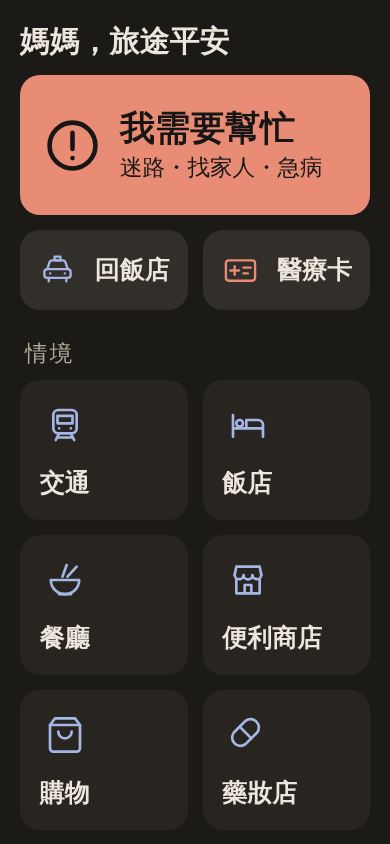
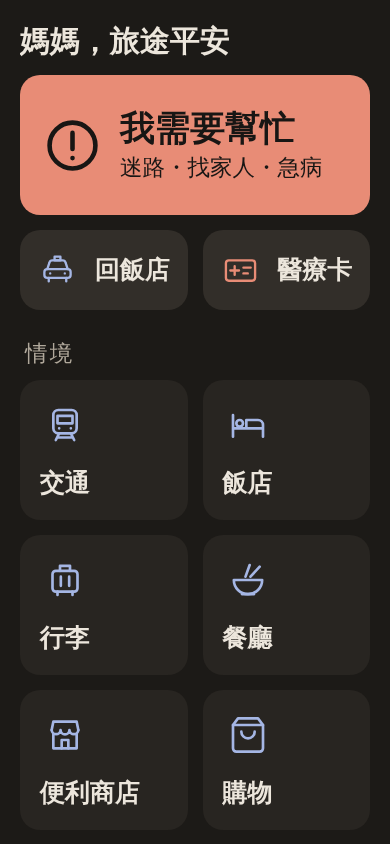
Add the luggage scene, Shinkansen luggage guide, exits and transfers (#26)
- New 行李 scene: lockers and left-luggage, courier forwarding to the hotel
  or airport, oversized baggage on the Shinkansen; suitcase pictogram
- Guide 新幹線大型行李 from JR Central / JR West, with sources and date
- Transport: which exit for 〇〇 (exit answers), transfer gate, transfer
  inside the gates

Claude-Session: https://claude.ai/code/session_01FL5DYQMe9ZWzkevjtD88Bj

diff --git a/src/content/scenes/luggage.ts b/src/content/scenes/luggage.ts
@@ -1,0 +1,183 @@
+import type { Scene } from "../types";
+
+const OK = { jp: "わかりました。", zh: "知道了" };
+
+/** 行李: lockers, left-luggage, forwarding by courier, and big suitcases on the Shinkansen. */
+export default {
+  id: "luggage",
+  title: "行李",
+  icon: "luggage",
+  groups: [
+    { id: "store", title: "寄放・置物櫃" },
+    { id: "send", title: "宅配寄送" },
+    { id: "shinkansen", title: "新幹線大行李" },
+  ],
+  phrases: [
+    {
+      id: "luggage-locker",
+      group: "store",
+      zh: "置物櫃在哪裡？",
+      jp: "コインロッカー は どこ です か。",
+      answers: "direction",
+    },
+    {
+      id: "luggage-big-locker",
+      group: "store",
+      zh: "有放得下大行李箱的置物櫃嗎？",
+      jp: "{大|おお}きい スーツケース が {入|はい}る ロッカー は あります か。",
+      answers: "yesNo",
+    },
+    {
+      id: "luggage-left-luggage",
+      group: "store",
+      zh: "附近有可以寄放行李的地方嗎？",
+      jp: "{近|ちか}く に {荷物|にもつ} を {預|あず}けられる {所|ところ} は あります か。",
+      tip: "大車站的置物櫃常常客滿。車站、飯店櫃台和部分便利商店有人工寄放。",
+      answers: "place",
+    },
+    {
+      id: "luggage-keep",
+      group: "store",
+      zh: "可以幫我保管行李嗎？",
+      jp: "{荷物|にもつ} を {預|あず}かって いただけます か。",
+      tip: "退房後還要逛街，可以請飯店櫃台先保管。",
+      answers: "yesNo",
+    },
+    {
+      id: "luggage-until",
+      group: "store",
+      zh: "可以放到幾點？",
+      jp: "{何時|なんじ} まで {預|あず}けられます か。",
+      answers: "time",
+    },
+    {
+      id: "luggage-pick-up",
+      group: "store",
+      zh: "我來拿寄放的行李。",
+      jp: "{預|あず}けた {荷物|にもつ} を {受|う}け{取|と}りに {来|き}ました。",
+      tip: "同時給對方看寄放時拿到的號碼牌或收據。",
+    },
+    {
+      id: "luggage-send-hotel",
+      group: "send",
+      zh: "我想把這件行李寄到我住的飯店。",
+      jp: "この {荷物|にもつ} を $hotel に {送|おく}りたい です。",
+      fallback: "この {荷物|にもつ} を この ホテル に {送|おく}りたい です。",
+      fallbackZh: "我想把這件行李寄到這間飯店。（同時給對方看地址）",
+      tip: "飯店櫃台、便利商店和機場都能寄宅配（宅急便），寄到下一間飯店就不用自己扛。",
+    },
+    {
+      id: "luggage-send-airport",
+      group: "send",
+      zh: "我想把這件行李寄到機場。",
+      jp: "この {荷物|にもつ} を {空港|くうこう} に {送|おく}りたい です。",
+      tip: "要寫搭機日期和航班，而且要提早幾天寄。哪天前要寄出，問櫃台最準。",
+    },
+    {
+      id: "luggage-arrive-when",
+      group: "send",
+      zh: "什麼時候會送到？",
+      jp: "いつ {届|とど}きます か。",
+      answers: [
+        { jp: "{今日|きょう} {中|じゅう}", zh: "今天" },
+        { jp: "{明日|あした}", zh: "明天" },
+        { jp: "{明後日|あさって}", zh: "後天" },
+        { jp: "{紙|かみ} に {書|か}きます", zh: "寫在紙上" },
+      ],
+    },
+    {
+      id: "luggage-fee",
+      group: "send",
+      zh: "運費多少錢？",
+      jp: "{送料|そうりょう} は いくら です か。",
+      tip: "請對方寫在紙上或指給你看。",
+    },
+    {
+      id: "luggage-form",
+      group: "send",
+      zh: "請教我怎麼填寄件單。",
+      jp: "{伝票|でんぴょう} の {書|か}き{方|かた} を {教|おし}えて ください。",
+    },
+    {
+      id: "luggage-fragile",
+      group: "send",
+      zh: "裡面有易碎的東西。",
+      jp: "{割|わ}れ{物|もの} が {入|はい}って います。",
+    },
+    {
+      id: "luggage-oversized-check",
+      group: "shinkansen",
+      zh: "這件行李算特大行李嗎？",
+      jp: "この {荷物|にもつ} は {特大|とくだい} {荷物|にもつ} です か。",
+      tip: "長、寬、高加起來超過 160 公分就算。",
+      answers: "yesNo",
+      link: { href: "#/guide/shinkansen-luggage", label: "看新幹線大型行李規定" },
+    },
+    {
+      id: "luggage-oversized-seat",
+      group: "shinkansen",
+      zh: "我想訂可以放大行李的座位。",
+      jp: "{特大|とくだい} {荷物|にもつ} スペース つき {座席|ざせき} を {予約|よやく} したい です。",
+      tip: "東海道、山陽、九州新幹線要先訂，不另外收費。",
+      link: { href: "#/guide/shinkansen-luggage", label: "看新幹線大型行李規定" },
+    },
+    {
+      id: "luggage-oversized-corner",
+      group: "shinkansen",
+      zh: "放大行李的地方在哪裡？",
+      jp: "{特大|とくだい} {荷物|にもつ} コーナー は どこ です か。",
+      answers: "direction",
+    },
+    {
+      id: "luggage-rack",
+      group: "shinkansen",
+      zh: "這件行李可以放上面的架子嗎？",
+      jp: "この {荷物|にもつ} は {棚|たな} に {載|の}せられます か。",
+      answers: "yesNo",
+    },
+  ],
+  heard: [
+    {
+      id: "luggage-heard-full",
+      jp: "ロッカー は {満杯|まんぱい} です。",
+      zh: "置物櫃都滿了。",
+      replies: [
+        { jp: "{近|ちか}く に {荷物|にもつ} を {預|あず}けられる {所|ところ} は あります か。", zh: "附近有可以寄放的地方嗎？" },
+        OK,
+      ],
+    },
+    {
+      id: "luggage-heard-too-big",
+      jp: "サイズ が {大|おお}きすぎます。",
+      zh: "尺寸太大了。",
+      replies: [
+        { jp: "どう すれば いい です か。", zh: "那該怎麼辦？" },
+        { jp: "{宅配|たくはい} で {送|おく}れます か。", zh: "可以用宅配寄嗎？" },
+      ],
+    },
+    {
+      id: "luggage-heard-write-address",
+      jp: "こちら に {送|おく}り{先|さき} を {書|か}いて ください。",
+      zh: "請在這裡寫寄送地址。",
+      replies: [
+        { jp: "{書|か}いて いただけます か。", zh: "可以幫我寫嗎？（給對方看地址）" },
+        { jp: "はい。", zh: "好" },
+      ],
+    },
+    {
+      id: "luggage-heard-fee",
+      jp: "{特大|とくだい} {荷物|にもつ} の {手数料|てすうりょう} が かかります。",
+      zh: "大行李要收手續費。",
+      replies: [
+        OK,
+        { jp: "{予約|よやく} が {必要|ひつよう} だと {知|し}りませんでした。", zh: "我不知道要先預約" },
+      ],
+    },
+    {
+      id: "luggage-heard-arrival",
+      jp: "{到着|とうちゃく} は {明後日|あさって} に なります。",
+      zh: "後天才會送到。",
+      replies: [OK, { jp: "{明日|あした} は {無理|むり} です か。", zh: "明天沒辦法嗎？" }],
+    },
+  ],
+} satisfies Scene;

diff --git a/src/content/guides.ts b/src/content/guides.ts
@@ -76,6 +76,41 @@ export const GUIDES: Guide[] = [
     ],
     verified: "2026-10-11",
   },
+  {
+    id: "shinkansen-luggage",
+    title: "新幹線大型行李",
+    summary: "東海道、山陽、九州新幹線：三邊加起來超過 160 公分的行李要先訂位。",
+    steps: [
+      {
+        title: "量行李",
+        body: "長、寬、高加起來。160 公分以下放座位上方的架子就好；160～250 公分算特大行李；超過 250 公分不能帶上車。",
+      },
+      {
+        title: "買票時一起訂位",
+        body: "訂指定席時選「特大行李放置處座位」（特大荷物スペースつき座席），行李放在座位後方。不另外收費。",
+      },
+      {
+        title: "沒訂到這種座位",
+        body: "部分車廂連接處有「特大荷物コーナー」。2025 年 7 月起試辦免預約，先到先用。",
+      },
+      {
+        title: "沒預約就帶上車",
+        body: "要付 1,000 日圓手續費，並照車掌的指示放行李。",
+      },
+    ],
+    notes: [
+      "這個規定只適用東海道、山陽、九州、西九州新幹線。其他新幹線的規定不同，問站務員。",
+      "不想自己扛，可以用宅配把行李寄到下一間飯店：見「行李」情境。",
+    ],
+    sources: [
+      // JR Central: 160–250 cm needs a seat with oversized baggage space, reserved in advance at no extra
+      // charge; ¥1,000 fee without one; deck corners reservation-free on trial since 2025-07-01.
+      "https://railway.jr-central.co.jp/oversized-baggage/",
+      // JR West (JR Odekake): the same rule for the Sanyo Shinkansen.
+      "https://www.jr-odekake.net/railroad/service/baggage/",
+    ],
+    verified: "2026-10-11",
+  },
 ];
 
 export function guideById(id: string | undefined): Guide | undefined {

diff --git a/src/content/scenes/transport.ts b/src/content/scenes/transport.ts
@@ -76,6 +76,21 @@ export default {
       fallbackZh: "去這裡要在哪裡換車？",
     },
     {
+      id: "transport-transfer-gate",
+      group: "train",
+      zh: "轉車要先出剪票口嗎？",
+      jp: "{乗|の}り{換|か}え は {改札|かいさつ} を {出|で}ます か。",
+      answers: "yesNo",
+    },
+    {
+      id: "transport-transfer-where",
+      group: "train",
+      zh: "轉乘口在哪裡？",
+      jp: "{乗|の}り{換|か}え{口|ぐち} は どこ です か。",
+      tip: "轉乘口是不用出站就能換車的閘門，通常有轉乘路線的顏色標示。",
+      answers: "direction",
+    },
+    {
       id: "transport-how-long",
       group: "train",
       zh: "到〇〇要多久？",
@@ -141,6 +156,16 @@ export default {
       group: "ticket",
       zh: "請教我怎麼買票。",
       jp: "{切符|きっぷ} の {買|か}い{方|かた} を {教|おし}えて ください。",
+    },
+    {
+      id: "transport-exit-for",
+      group: "where",
+      zh: "去〇〇要從哪個出口出去？",
+      jp: "$dest に {行|い}く には どの {出口|でぐち} が {近|ちか}い です か。",
+      fallback: "ここ に {行|い}く には どの {出口|でぐち} が {近|ちか}い です か。",
+      fallbackZh: "去這裡要從哪個出口出去？（同時給對方看地址或地圖）",
+      tip: "大車站的出口很多，先問好出口再走，比較不會繞路。",
+      answers: "exit",
     },
     {
       id: "transport-nearest-exit",

diff --git a/src/ui/dom.ts b/src/ui/dom.ts
@@ -118,6 +118,8 @@ const ICONS = {
   info: '<circle cx="12" cy="12" r="10"/><path d="M12 16.5v-5"/><path d="M12 7.5h.01"/>',
   user: '<path d="M20 21v-2a4 4 0 0 0-4-4H8a4 4 0 0 0-4 4v2"/><circle cx="12" cy="7" r="4"/>',
   swap: '<path d="M17 2l4 4-4 4"/><path d="M3 11v-1a4 4 0 0 1 4-4h14"/><path d="M7 22l-4-4 4-4"/><path d="M21 13v1a4 4 0 0 1-4 4H3"/>',
+  // A suitcase on wheels, as on left-luggage and baggage signs.
+  luggage: '<rect x="4.5" y="6.5" width="15" height="12.5" rx="2"/><path d="M9 6.5V3.5h6v3"/><path d="M9.5 10v5.5M14.5 10v5.5"/><path d="M7.5 19v2M16.5 19v2"/>',
   stroller:
     '<path d="M2.5 4.5h2.5l2 7"/><path d="M7 11.5h13a6.5 6.5 0 0 0-6.5-6.5v6.5"/><path d="M7 11.5a6.5 4.5 0 0 0 13 0"/><circle cx="8.5" cy="19.5" r="1.75"/><circle cx="17.5" cy="19.5" r="1.75"/><path d="M10 16l-1 2M16 16l1 2"/>',
   checkcircle: '<circle cx="12" cy="12" r="10"/><path d="M8 12.5l2.5 2.5L16 9.5"/>',

diff --git a/src/content/scenes/index.ts b/src/content/scenes/index.ts
@@ -4,13 +4,14 @@ import emergency from "./emergency";
 import family from "./family";
 import hotel from "./hotel";
 import konbini from "./konbini";
+import luggage from "./luggage";
 import restaurant from "./restaurant";
 import shopping from "./shopping";
 import toilet from "./toilet";
 import transport from "./transport";
 
 /** Home screen order: most important first. */
-export const SCENES: Scene[] = [transport, hotel, restaurant, konbini, shopping, drugstore, toilet, family, emergency];
+export const SCENES: Scene[] = [transport, hotel, luggage, restaurant, konbini, shopping, drugstore, toilet, family, emergency];
 
 export function sceneById(id: string | undefined): Scene | undefined {
   return SCENES.find((scene) => scene.id === (id as SceneId));

diff --git a/tests/content.test.ts b/tests/content.test.ts
@@ -21,10 +21,11 @@ describe("content", () => {
     expect(validateContent(content)).toEqual([]);
   });
 
-  it("has all nine scenes, each with enough phrases", () => {
+  it("has all ten scenes, each with enough phrases", () => {
     expect(SCENES.map((s) => s.id)).toEqual([
       "transport",
       "hotel",
+      "luggage",
       "restaurant",
       "konbini",
       "shopping",

diff --git a/src/content/types.ts b/src/content/types.ts
@@ -54,6 +54,7 @@ export interface Heard {
 export type SceneId =
   | "transport"
   | "hotel"
+  | "luggage"
   | "restaurant"
   | "konbini"
   | "shopping"
